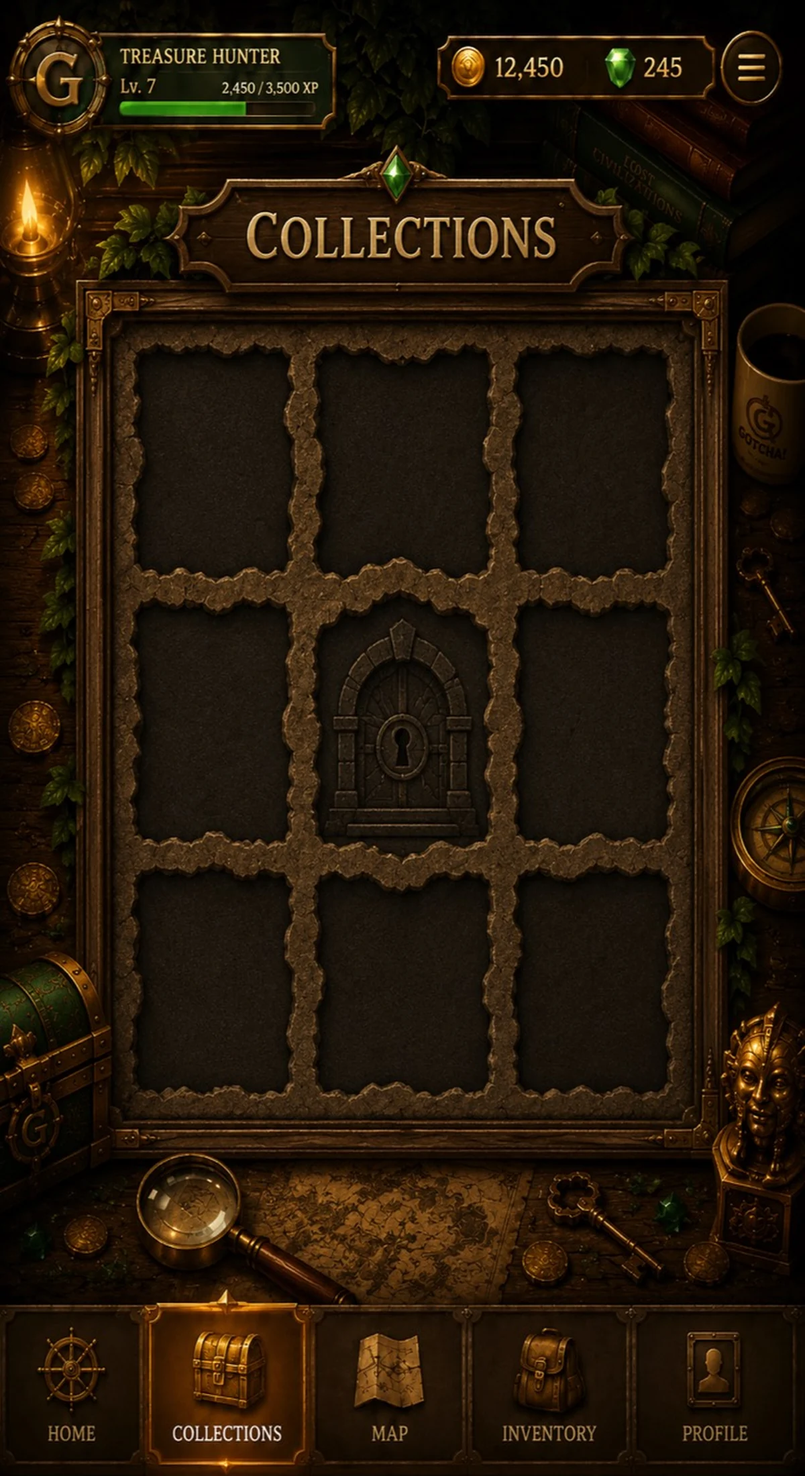
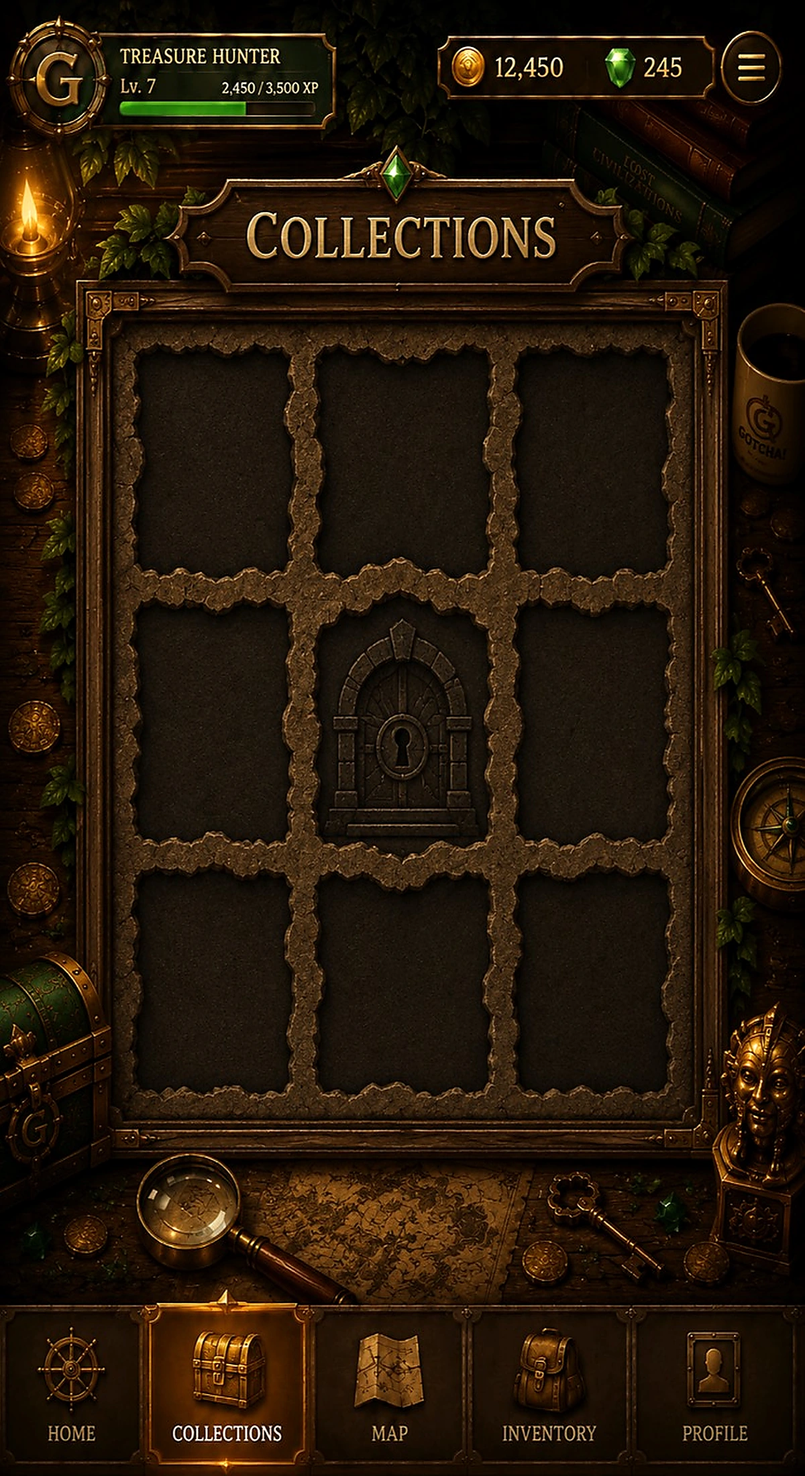
Sharpen collection screen background

diff --git a/service-worker.js b/service-worker.js
@@ -1,6 +1,6 @@
 "use strict";
 
-const CACHE_NAME = "gotcha-mvp-v56";
+const CACHE_NAME = "gotcha-mvp-v57";
 const APP_SHELL = [
   "./",
   "./index.html",
